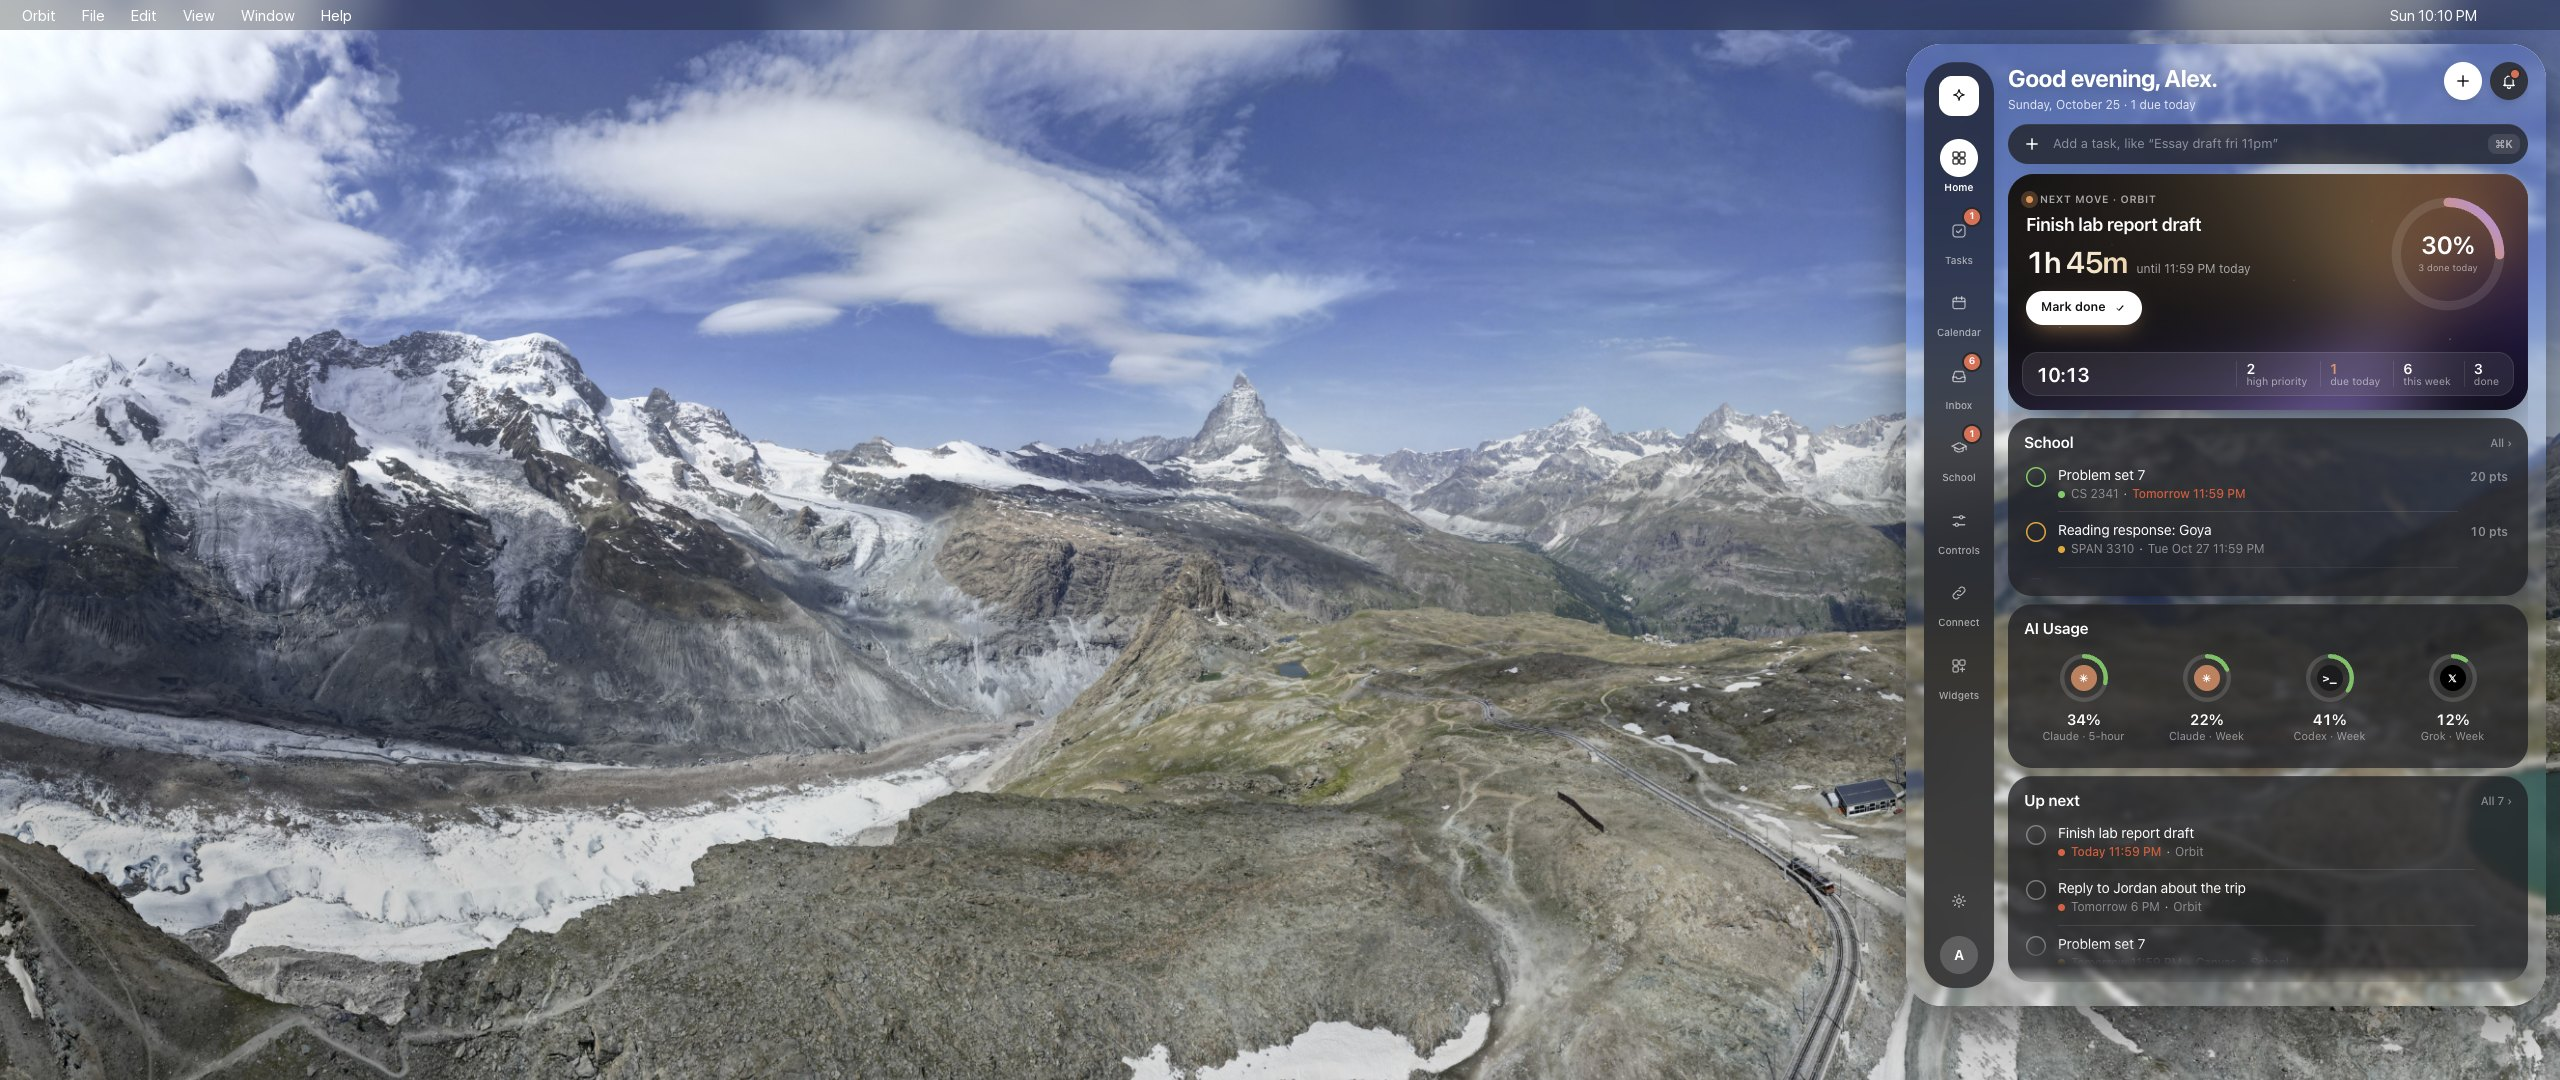
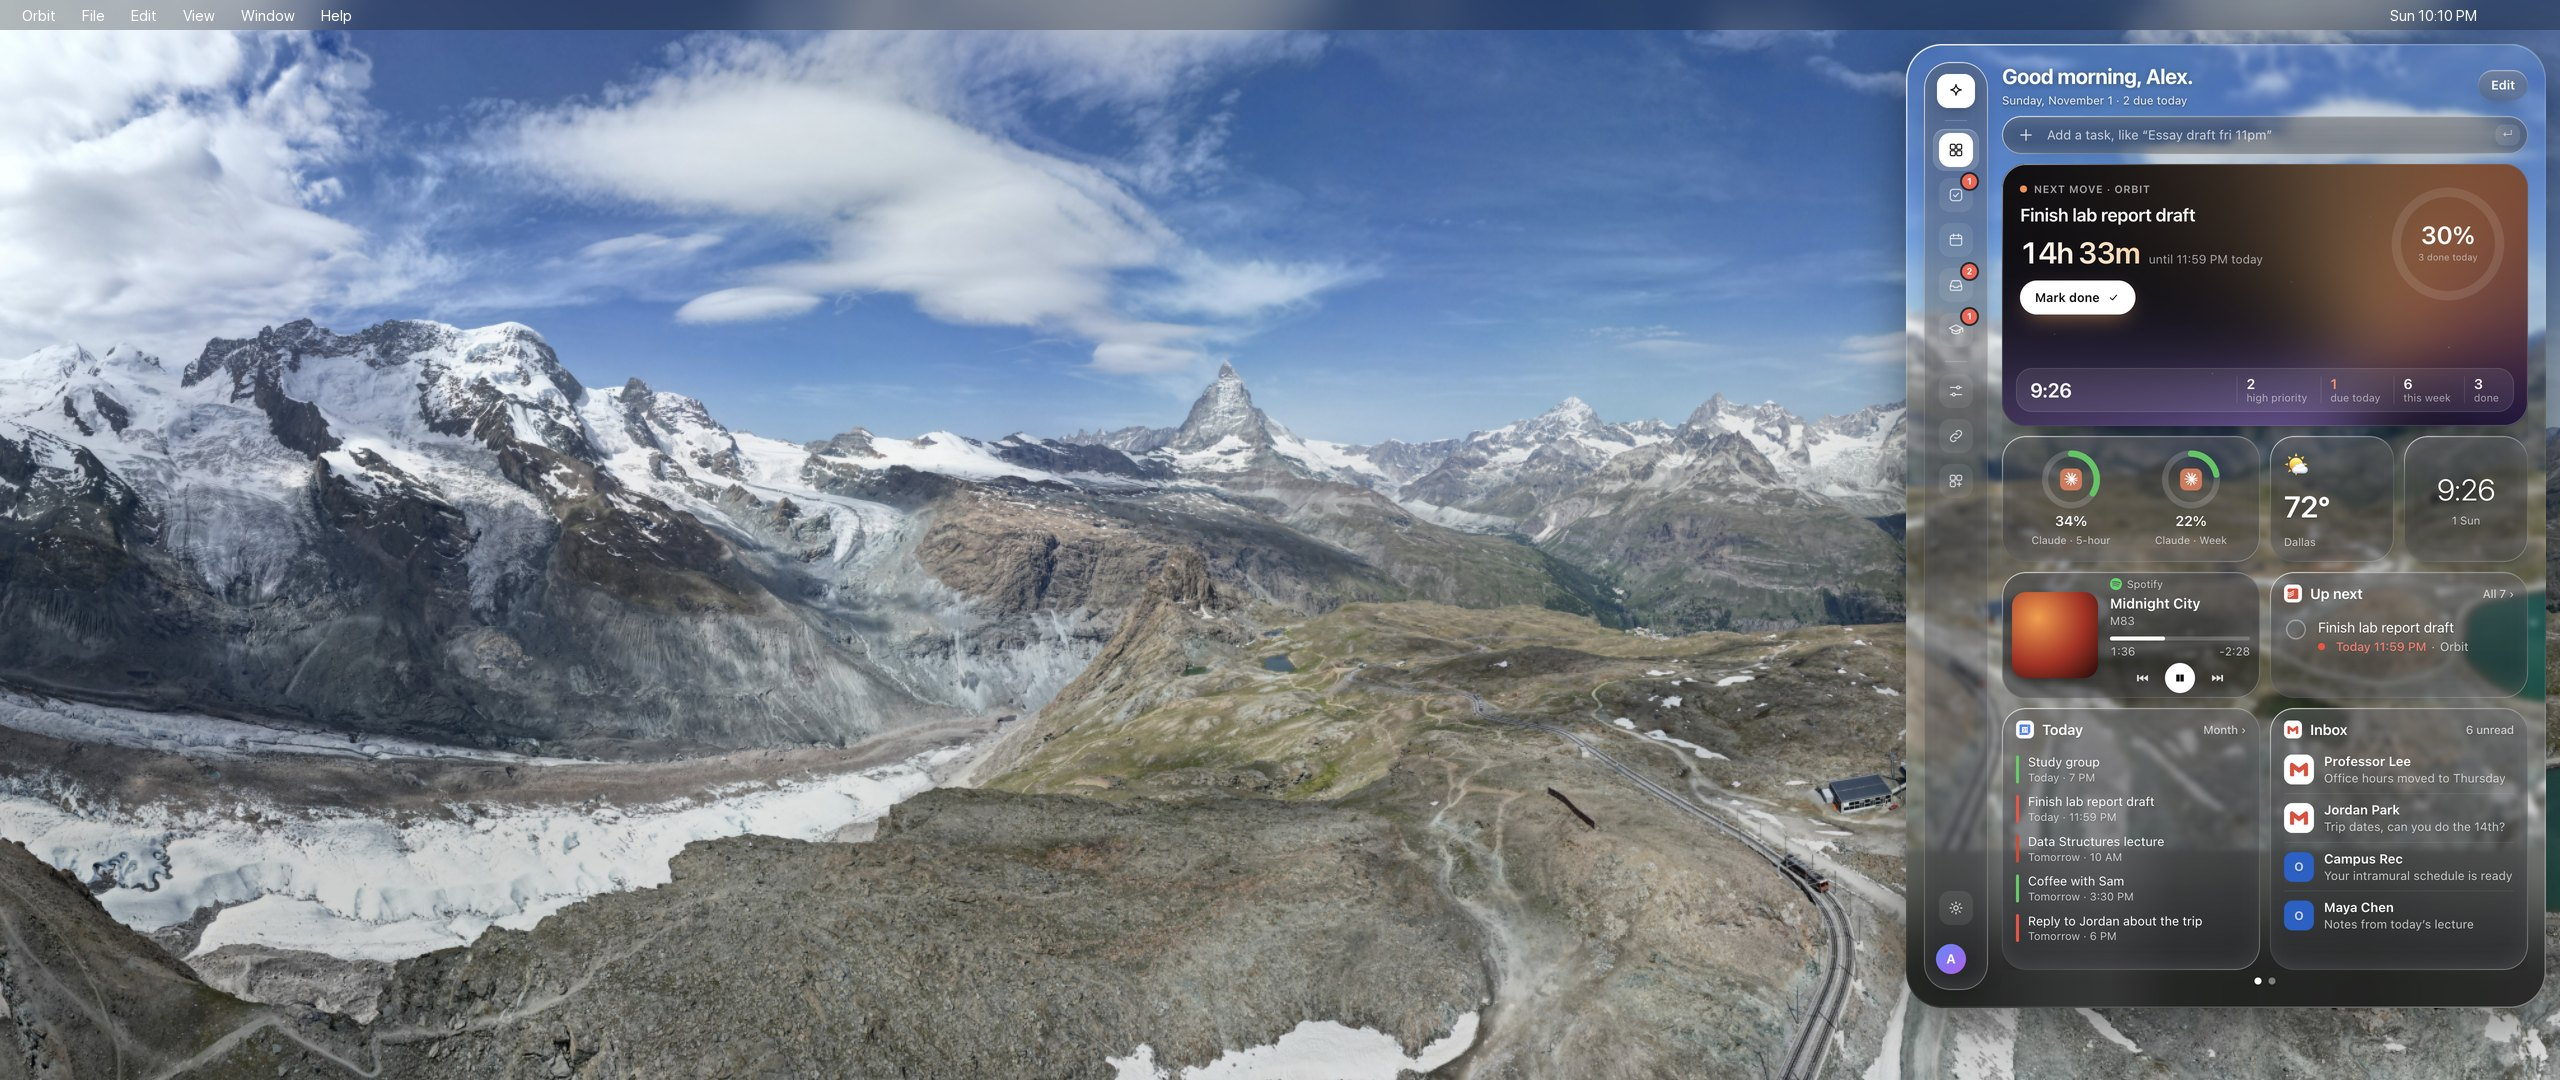
Update site from 1b65ef0

diff --git a/index.html b/index.html
@@ -62,7 +62,7 @@
    <article class="card">
     <span class="glyph" style="background:linear-gradient(135deg,#ff8a4c,#ff5f6d)">✦</span>
     <h3>Your day, on the right</h3>
-    <p>A glass panel sits on your desktop, under your apps and above your icons. Next move, due-today count, school, inbox, calendar and music, all in one look. Drag widgets into any order and drag the edge to make it wider.</p>
+    <p>A glass panel sits on your desktop, under your apps and above your icons. Your next move, school, inbox, music and more, as widgets in Apple-style sizes: drag one and the others slide out of the way, then it snaps into place. Drag the panel wider and it opens into a bigger workspace with every app on your Mac a click away.</p>
    </article>
    <article class="card">
     <span class="glyph" style="background:linear-gradient(135deg,#30d158,#0ea5e9)">⧉</span>
@@ -111,7 +111,7 @@
    </div>
    <p class="tab-text" id="tab-text"></p>
   </div>
-  <div class="panel-wrap"><img id="shot" src="img/panel-home.png" alt="Orbit dashboard, Home tab" width="640" height="962"></div>
+  <div class="panel-wrap"><img id="shot" src="img/panel-home.webp" alt="Orbit dashboard, Home tab" width="640" height="962"></div>
  </section>
 
  <!-- CONNECTIONS -->
@@ -171,7 +171,7 @@
  <!-- FAQ -->
  <section class="block faq" id="faq">
   <h2>Questions</h2>
-  <details><summary>Does it slow my computer down?</summary><p>No. The wallpaper renders at 30 frames per second in the GPU’s low-power mode and stops completely while a full-screen app covers it. You can also switch any scene to a still image.</p></details>
+  <details><summary>Does it slow my computer down?</summary><p>No. The wallpaper animates at 24 frames per second (15 on battery) and only draws when a frame is due. It stops completely while you’re away from your Mac, the screen is locked, or a full-screen app covers it, and the dashboard only redraws what changed. You can also switch any scene to a still image.</p></details>
   <details><summary>Will my desktop icons and windows still work?</summary><p>Yes. The wallpaper sits behind your icons, and the dashboard sits on the desktop under every app window, so it never gets in your way. Hide it any time from the menu bar (or the system tray on Windows).</p></details>
   <details><summary>Does it work with an ultrawide or several monitors?</summary><p>Yes. Each display gets its own moving wallpaper, framed to fit its shape, and the dashboard lives on your main display.</p></details>
   <details><summary>Do I need Claude, Codex or any other app running?</summary><p>No. Orbit runs on its own. If you use apps like these, Orbit can show their usage limits, but it never needs them.</p></details>

diff --git a/main.js b/main.js
@@ -39,11 +39,11 @@ showFrame(0);
 
 // Dashboard tour.
 const TEXT = {
-  home: 'Your next move, front and center: the most urgent thing with a live countdown, how much of today is done, and the widgets you choose. Drag them into any order.',
+  home: 'Your next move, front and center, with a live countdown. Around it, widgets in Apple-style sizes that snap into place when you drag them. Only the services you’ve connected show up.',
   tasks: 'Every task from every source in one Reminders-style list. Sorted by priority and due date, color dots instead of exclamation marks. Type “Essay draft fri 11pm” and Orbit sets the date.',
   school: 'Canvas assignments, missing work, recent grades and teacher announcements, per course. Sign in with your school login, two-factor included.',
   calendar: 'A month view with your events and due dates together, and an agenda of what’s coming up. Works with Google, Outlook, iCloud and any iCal link.',
-  inbox: 'Unread mail from all your accounts in one list, sender and subject only. Click to open it in your own mail app.',
+  inbox: 'Texts, email, events and tasks in one list, ranked by what needs you now, with the reason for each. Click one to open it in Messages or your own mail app.',
   controls: 'Pick a wallpaper, upload your own, pause the motion, dim at night, run a 25-minute focus timer and launch your favorite apps.',
   connect: 'Add the accounts you want in a couple of clicks. Each one syncs on its own schedule and shows its status, so you always know what’s current.',
 };
@@ -51,9 +51,9 @@ const shot = document.getElementById('shot'), text = document.getElementById('ta
 function tab(name) {
   document.querySelectorAll('#tabs button').forEach(b => b.classList.toggle('on', b.dataset.shot === name));
   shot.style.opacity = 0;
-  setTimeout(() => { shot.src = `img/panel-${name}.png`; shot.alt = `Orbit dashboard, ${name} tab`; shot.onload = () => { shot.style.opacity = 1; }; }, 150);
+  setTimeout(() => { shot.src = `img/panel-${name}.webp`; shot.alt = `Orbit dashboard, ${name} tab`; shot.onload = () => { shot.style.opacity = 1; }; }, 150);
   text.textContent = TEXT[name];
 }
 document.querySelectorAll('#tabs button').forEach(b => b.addEventListener('click', () => tab(b.dataset.shot)));
 text.textContent = TEXT.home;
-['tasks', 'school', 'calendar', 'inbox', 'controls', 'connect'].forEach(n => { const i = new Image(); i.src = `img/panel-${n}.png`; });
+['tasks', 'school', 'calendar', 'inbox', 'controls', 'connect'].forEach(n => { const i = new Image(); i.src = `img/panel-${n}.webp`; });
